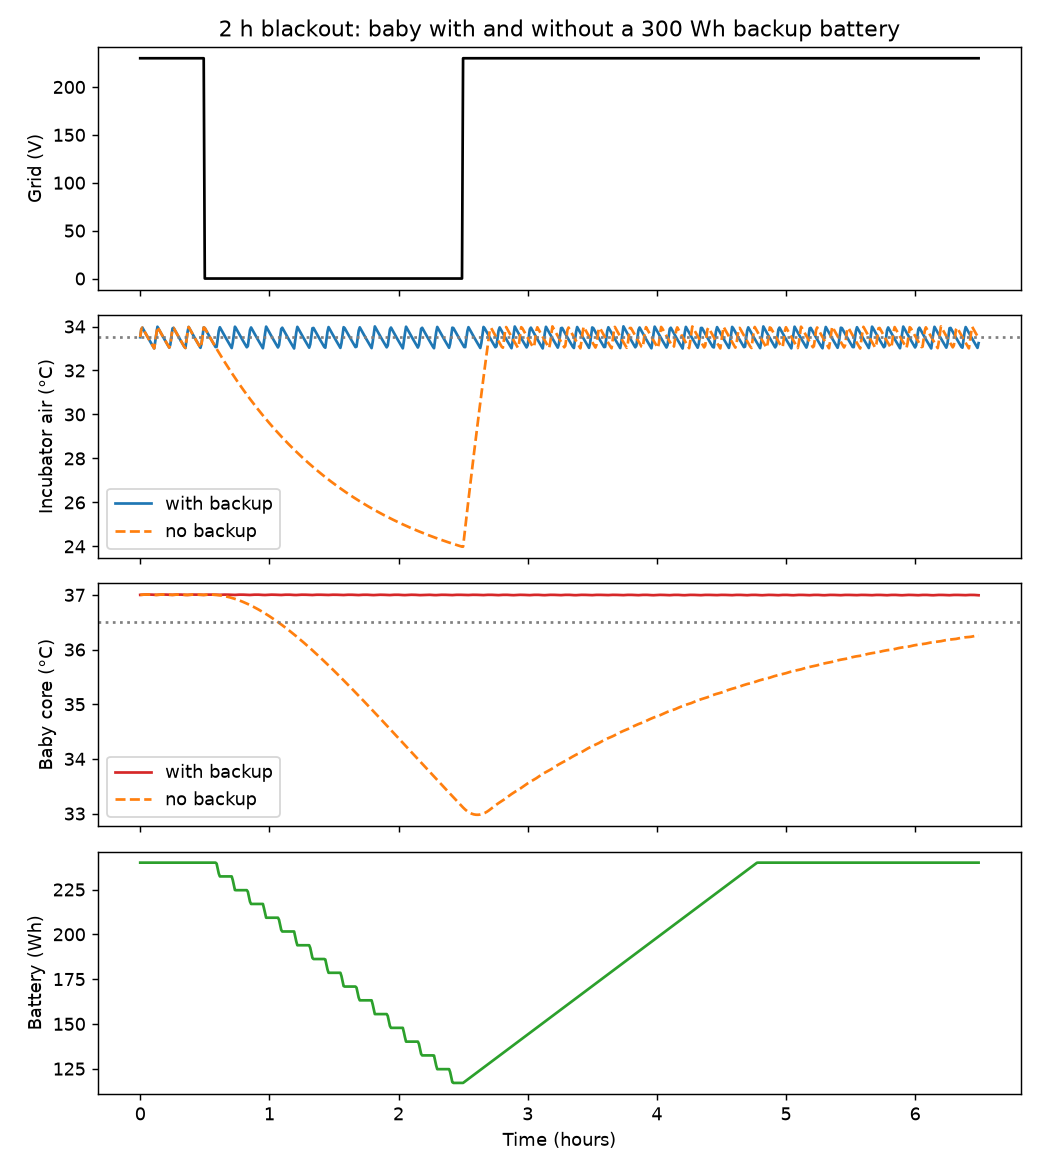
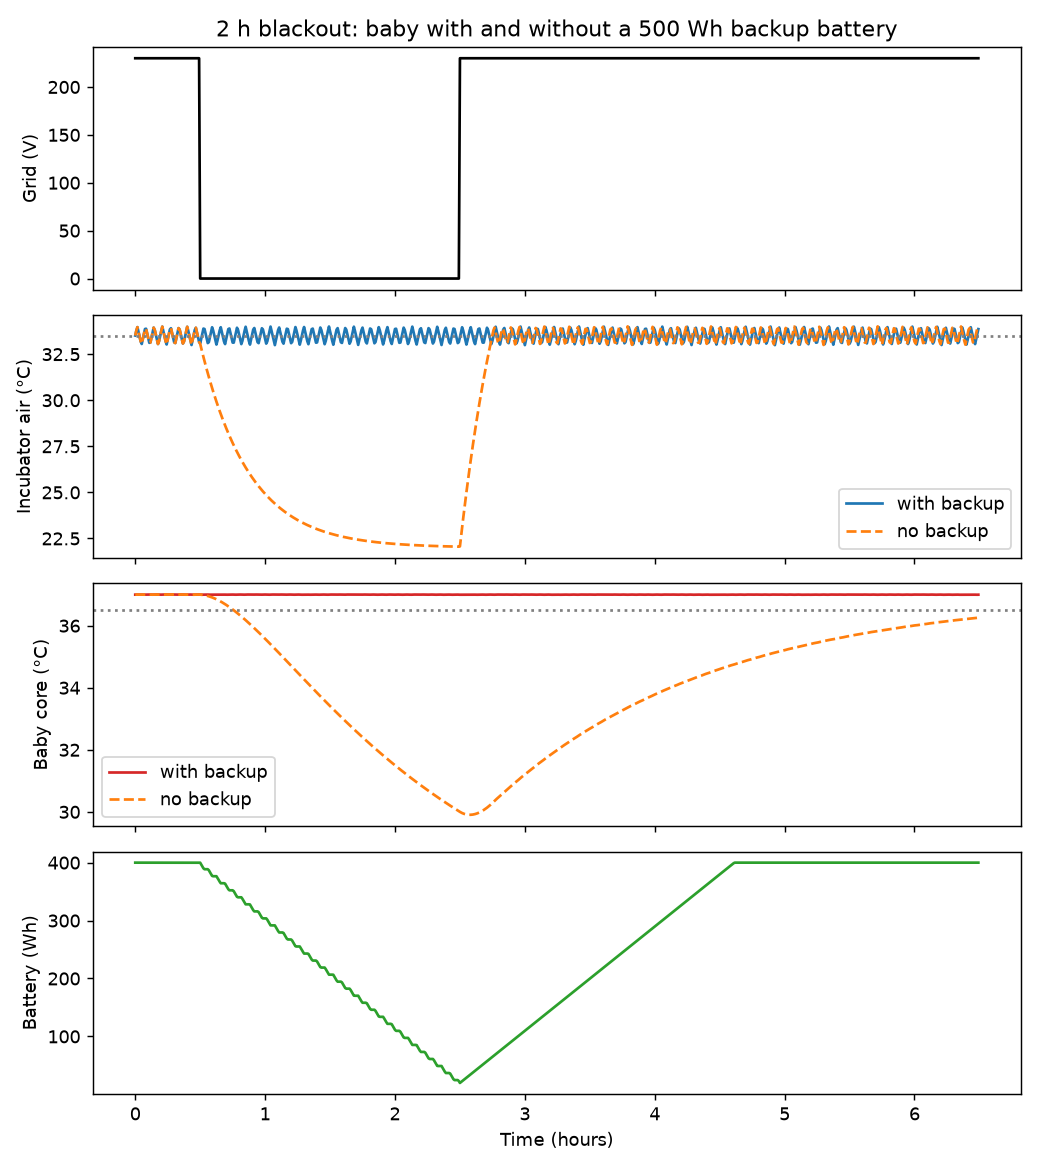
Rewrite README with measured heat loss and birth-weight results; check every number

diff --git a/reproduce_findings.py b/reproduce_findings.py
@@ -1,8 +1,12 @@
-from dataclasses import replace
+"""Re-run every number quoted in README.md through model.py and compare."""
+import sys
+import time
+from dataclasses import replace
 from model import Params, legacy_params, grid_profile, repeated_outages, simulate
 
-BIG = 1000000
+BIG = 1000000.0
 bad = []
+start = time.time()
 
 
 def check(name, readme, got, tol):
@@ -12,79 +16,74 @@ def check(name, readme, got, tol):
     print(f"{'OK  ' if ok else 'DIFF'} | {name}: README {readme:g}, model {got:.2f}")
 
 
-def check_range(name, lo, hi, got):
-    ok = lo <= got <= hi
-    if not ok:
-        bad.append(name)
-    print(f"{'OK  ' if ok else 'DIFF'} | {name}: README {lo:g} to {hi:g}, model {got:.2f}")
+def needed(p, grid):
+    r = simulate(p, grid, BIG)
+    return (p.usable_fraction * BIG - r["lowest_charge_wh"]) / p.usable_fraction, r
 
 
-def brownout(heater, ua, v, hours=6.0):
-    p = replace(legacy_params(), heater_w=float(heater), ua=float(ua))
-    g = grid_profile([(0.5, hours, v)], 0.5 + hours + 4)
-    return simulate(p, g, BIG)
+def blackout(h):
+    return grid_profile([(0.5, h, 0.0)], 0.5 + h + 4)
 
 
-print("--- Sustained undervoltage, 6 h ---")
-for ua in (5, 8):
-    for v in (0.55, 0.6, 0.7, 0.85):
-        r = brownout(300, ua, v)
-        check(f"300 W, UA {ua}, {v} pu: battery Wh", 0, r["battery_used_wh"], 1.0)
-r = brownout(300, 8, 0.55)
-check("300 W, UA 8, 0.55 pu: lowest core", 36.84, r["lowest_core"], 0.03)
-for v in (0.55, 0.6, 0.7, 0.85):
-    r = brownout(200, 5, v)
-    check(f"200 W, UA 5, {v} pu: battery Wh", 0, r["battery_used_wh"], 1.0)
-r = brownout(200, 8, 0.6)
-check("200 W, UA 8, 0.6 pu: battery Wh", 180, r["battery_used_wh"], 4.0)
-check("200 W, UA 8, 0.6 pu: lowest core", 36.67, r["lowest_core"], 0.03)
-r = brownout(200, 8, 0.55)
-check("200 W, UA 8, 0.55 pu: battery Wh", 275, r["battery_used_wh"], 5.0)
-check("200 W, UA 8, 0.55 pu: lowest core", 36.67, r["lowest_core"], 0.03)
+def brownout(v, h=6.0):
+    return grid_profile([(0.5, h, v)], 0.5 + h + 4)
+
+
+d = Params()
+
+print("--- Default incubator, 2 kg baby, 22 C room: blackouts ---")
+for hours, want in ((2, 475), (3, 712), (8, 1895), (11, 2607)):
+    n, r = needed(d, blackout(hours))
+    check(f"{hours} h blackout: battery rating (Wh)", want, n, max(10, 0.02 * want))
+    check(f"{hours} h blackout: lowest baby temperature with backup (C)", 37.0, r["lowest_core"], 0.05)
+    check(f"{hours} h blackout: battery energy per hour (Wh)", 190, r["battery_used_wh"] / hours, 5)
+n0 = simulate(d, blackout(2), 0)
+check("2 h blackout, no backup: lowest baby temperature (C)", 29.9, n0["lowest_core"], 0.15)
 
 print()
-print("--- Blackout energy, UA 5, room 22 C, immediate transfer to battery ---")
-for hours in (1.5, 2.0, 3.0, 8.0, 11.0):
-    g = grid_profile([(0.5, hours, 0.0)], 0.5 + hours + 4)
-    r = simulate(legacy_params(), g, BIG)
-    wh = r["battery_used_wh"]
-    print(f"INFO | {hours} h blackout: battery {wh:.0f} Wh = {wh / hours:.1f} Wh per hour, "
-          f"rating at 80% usable {wh / 0.8:.0f} Wh, lowest core {r['lowest_core']:.2f}")
-    if hours >= 1.5:
-        check(f"{hours} h blackout: Wh per hour (UA x temperature difference / efficiency)", 63.9, wh / hours, 3.0)
+print("--- By birth weight, 2 h blackout ---")
+for kg, want, want_core in ((0.5, 561, 25.2), (1.0, 531, 26.9), (2.0, 475, 29.9), (3.0, 454, 30.7), (4.0, 436, 31.3)):
+    q = Params(baby_mass_kg=kg)
+    n, r = needed(q, blackout(2))
+    check(f"{kg} kg: battery rating (Wh)", want, n, 10)
+    check(f"{kg} kg: no backup, lowest baby temperature (C)", want_core, simulate(q, blackout(2), 0)["lowest_core"], 0.2)
 
 print()
-print("--- No backup, 2 h blackout ---")
-for cap_kj, want in ((5, 30.90), (10, 31.68), (20, 32.98), (30, 33.60)):
-    pp = replace(legacy_params(), air_capacity=cap_kj * 1000.0)
-    g = grid_profile([(0.5, 2.0, 0.0)], 6.5)
-    r = simulate(pp, g, 0)
-    check(f"C = {cap_kj} kJ/C: lowest core", want, r["lowest_core"], 0.1)
+print("--- Heat loss sensitivity, 2 h blackout, 2 kg baby ---")
+for ua, want in ((5, 158), (8, 256), (11, 350), (14.8, 475), (20, 642)):
+    n, _ = needed(replace(d, ua=float(ua)), blackout(2))
+    check(f"heat loss {ua} W/C: battery rating (Wh)", want, n, 10)
 
 print()
-print("--- Repeated blackouts, 3 a day for 48 h ---")
-cases = [(1.5, 100, 87, 36.82), (1.5, 150, 0, 36.99), (3.0, 100, 639, 33.33),
-         (3.0, 150, 397, 35.10), (3.0, 200, 197, 36.40), (3.0, 300, 0, 36.99)]
-for length, rating, empty, core in cases:
-    r = simulate(legacy_params(), grid_profile(repeated_outages(length), 48), rating)
-    check(f"{length} h, {rating} Wh: minutes battery empty", empty, r["minutes_battery_empty"], max(5, 0.03 * empty))
-    check(f"{length} h, {rating} Wh: lowest core", core, r["lowest_core"], 0.1)
-
-
-def warmup(heater, ua=5.0, c=20000.0, room=22.0):
-    T, t = room, 0
-    while T < 35.0 and t < 36000:
-        T += (heater - ua * (T - room)) / c
-        t += 1
-    return t / 60.0
-
+print("--- Low voltage for 6 h ---")
+for v in (0.7, 0.75, 0.8, 0.9):
+    n, _ = needed(d, brownout(v))
+    check(f"grid at {v} of nominal: battery rating (Wh)", 0, n, 5)
+for v, want, want_core, want_min in ((0.6, 508, 34.1, 506), (0.55, 706, 32.8, 553)):
+    n, _ = needed(d, brownout(v))
+    check(f"grid at {v} of nominal: battery rating (Wh)", want, n, 15)
+    nb = simulate(d, brownout(v), 0)
+    check(f"grid at {v}, no backup: lowest baby temperature (C)", want_core, nb["lowest_core"], 0.15)
+    check(f"grid at {v}, no backup: minutes below 36.5 C", want_min, nb["minutes_core_below_36_5"], 10)
+loss = d.ua * (d.setpoint_c - d.room_c)
+check("lowest grid voltage the heater holds alone (fraction of nominal)", 0.70, (loss / d.heater_w) ** 0.5, 0.02)
 
 print()
-print("--- Warm-up from 22 to 35 C ---")
-for w, want in ((200, 26.2), (250, 20.1), (300, 16.3), (400, 11.8)):
-    check(f"{w} W heater: minutes", want, warmup(w), 0.2)
+print("--- Charger, three blackouts a day for 2 days ---")
+for ch, h, want in ((60, 2.0, 814), (100, 2.0, 476), (200, 2.0, 476), (60, 3.0, 2566), (200, 3.0, 713)):
+    n, _ = needed(replace(d, charger_w=float(ch)), grid_profile(repeated_outages(h), 48))
+    check(f"{h} h blackouts, {ch} W charger: battery rating (Wh)", want, n, max(10, 0.03 * want))
 
 print()
+print("--- Heater warm-up and measured heat loss ---")
+T, t = 22.0, 0
+while T < 35.0 and t < 36000:
+    T += (d.heater_w - d.ua * (T - 22.0)) / d.air_capacity
+    t += 1
+check("warm-up from 22 to 35 C (minutes)", 18.0, t / 60.0, 0.3)
+check("heat loss x 11 C = measured heat power (W)", 162.95, d.ua * 11.0, 0.5)
+
+print()
+print(f"({time.time() - start:.0f} s)")
 print("Everything reproduced." if not bad else f"{len(bad)} differ: " + "; ".join(bad))
-
-
+sys.exit(1 if bad else 0)

diff --git a/make_figure.py b/make_figure.py
@@ -8,7 +8,7 @@ from model import Params, grid_profile, simulate
 D = "\u00b0C"
 p = Params()
 grid = grid_profile([(0.5, 2.0, 0.0)], 6.5)
-with_b = simulate(p, grid, 300)
+with_b = simulate(p, grid, 500)
 without = simulate(p, grid, 0)
 step = 30
 t = np.arange(len(grid))[::step] / 3600.0
@@ -16,7 +16,7 @@ t = np.arange(len(grid))[::step] / 3600.0
 fig, ax = plt.subplots(4, 1, sharex=True, figsize=(8, 9))
 ax[0].plot(t, grid[::step] * 230.0, color="black")
 ax[0].set_ylabel("Grid (V)")
-ax[0].set_title("2 h blackout: baby with and without a 300 Wh backup battery")
+ax[0].set_title("2 h blackout: baby with and without a 500 Wh backup battery")
 ax[1].plot(t, with_b["air"][::step], label="with backup")
 ax[1].plot(t, without["air"][::step], "--", label="no backup")
 ax[1].axhline(33.5, color="gray", ls=":")
@@ -34,3 +34,4 @@ fig.tight_layout()
 os.makedirs("docs", exist_ok=True)
 fig.savefig("docs/blackout_example.png", dpi=130)
 print("Saved docs/blackout_example.png")
+

diff --git a/README.md b/README.md
@@ -1,75 +1,79 @@
 # Resilient Infant Incubator: Power Failure Simulation
 
-Python simulation of an infant incubator and a preterm baby during mains outages and sustained undervoltage, with a backup battery and a controller.
-
 **Try it online:** [live dashboard](https://incubator-power-resilience.streamlit.app) | **More projects:** [portfolio](https://alusine-bah.github.io)
 
-> **Provisional numbers.** A measurement on a real commercial incubator (AMS Amenity XP; the two papers are listed in PARAMETERS.md) gives a heat loss of about 15 W per °C, roughly three times the 5 W per °C used for the results below. For such a device the battery sizes below are likely about three times too small, and the heater has less margin against low voltage. The model, dashboard and README are being updated.
-
 ## Summary
-When the grid fails, how long does a baby in an incubator stay warm, and how big must a backup battery be? This project simulates an incubator, a 2 kg preterm baby and a backup battery through blackouts and long low-voltage events. It checks its own results against earlier runs and lists what it leaves out.
+When the grid fails, how long does a baby in an incubator stay warm, and how big must a backup battery be? This project simulates an incubator, a preterm baby (0.5 to 4 kg) and a backup battery through blackouts and long low-voltage events. It uses a heat loss measured on one commercial incubator and outage data from published sensor studies, and a script re-runs every number in this README against the model.
 
-Main results from this model (inputs marked as assumptions are listed in PARAMETERS.md):
-- With no backup, a 2 h blackout lowers the modelled baby's core temperature to about 31 to 34 °C.
-- With a battery that takes over at once, the baby stays near 37 °C. The battery uses about 64 Wh per outage hour, so a rating of about 154 Wh for 2 h and 240 Wh for 3 h at 80 percent usable.
-- A 300 W heater rides through grid voltage down to 0.55 of nominal without a battery in the cases tested. A 200 W heater does not when heat loss is high (UA 8).
-- The heat-loss value is not validated against a real incubator, and battery size scales directly with it.
+Main results for the default incubator, a 2 kg baby and a 22 °C room. Inputs that are assumptions are listed in PARAMETERS.md.
+- With no backup, a 2 h blackout lowers the modelled core temperature of a 2 kg baby to about 30 °C. Across birth weights it falls to about 25 °C (0.5 kg) to 31 °C (4 kg). Below about 30 °C the model has no physiology, so read these as severe cold exposure and not as precise predictions.
+- With a battery that takes over at once, the baby stays at about 37 °C. The battery supplies about 190 Wh per outage hour, so a rated battery of about 237 Wh per outage hour at 80 percent usable: 475 Wh for 2 h, 712 Wh for 3 h, 1,895 Wh for 8 h and 2,607 Wh for 11 h.
+- Smaller babies need more battery for the same blackout, because their warmer air setpoint widens the gap to the room: 561 Wh at 0.5 kg against 436 Wh at 4 kg for 2 h.
+- Heat loss is the main lever. For a 2 h blackout the rated battery is 158 Wh at 5 W/°C, 256 Wh at 8, 350 Wh at 11, 475 Wh at 14.8 (measured) and 642 Wh at 20. A lower heat loss shrinks the battery in proportion; whether a practical incubator can reach a low value was not tested.
+- Low voltage: the 350 W heater holds the setpoint with no battery when the grid is at 0.7 of nominal or higher. At 0.6 for 6 h the rated battery must be about 508 Wh, and at 0.55 about 706 Wh. Without backup the baby spends 506 minutes (0.6) and 553 minutes (0.55) below 36.5 °C. Sensors in Sierra Leone recorded grid voltage as low as 0.55 of nominal.
+- Charger: for three 2 h blackouts a day, a 476 Wh battery works if the charger delivers 100 W or more. With a 60 W charger the battery cannot refill between blackouts and 814 Wh is needed. For 3 h blackouts the figures are 713 Wh with a 200 W charger and 2,566 Wh with 60 W.
+- Not validated: the heat loss comes from one device, and several other inputs rest on a single source or are assumptions (see the table below and PARAMETERS.md).
 
-![Baby temperature in a 2 h blackout, with and without a 300 Wh battery](docs/blackout_example.png)
+![Baby temperature in a 2 h blackout, with and without a 500 Wh battery](docs/blackout_example.png)
 
 **Educational model. Not a medical device and not for clinical decisions.**
-
-## Status
-Early stage. Several parameters are assumptions (see PARAMETERS.md for the source and status of each). Not validated against a real device. No measured steady-state power figure for a neonatal incubator has been found yet.
 
 ## Files
 - model.py: the simulation and all parameters
 - app.py: interactive dashboard
-- check_model.py and reproduce_findings.py: re-run earlier results through model.py and compare them with this README
+- check_model.py: tests the model against earlier results and published ranges
+- reproduce_findings.py: re-runs every number in this README through the model
 - make_figure.py: regenerates the example figure in docs/
-- PARAMETERS.md: where each input comes from, and the papers reviewed
+- PARAMETERS.md: where each input comes from, the papers reviewed, and open issues
 
 ## How to run
 - Install the packages: python -m pip install -r requirements.txt
-- Check the model reproduces earlier results: python check_model.py
-- Check every README claim against the model: python reproduce_findings.py
+- Check the model: python check_model.py
+- Check every README number against the model: python reproduce_findings.py
 - Start the interactive dashboard: python -m streamlit run app.py
 - Regenerate the example figure: python make_figure.py
 
-## Model (current settings)
-- Heater 300 W. A 200 W heater fails the 20 min warm-up spec of a commercial unit (VNG 3000 datasheet); 300 W gives 16 min in the model. Heater is a fixed resistance, so power is proportional to voltage squared.
-- Heat loss UA = 5 W/°C baseline, tested from 3 to 8. Calculated values in two papers support this range (about 3.8 W/°C, Kapen et al. 2019; about 4.2 W/°C from wall areas, Nwaneri et al. 2020), but neither is measured. Room 22 °C baseline; datasheets list 20 to 30 °C.
-- Air setpoint 33.5 °C (neutral temperature for a 2 kg baby in the first days; hospital guideline, handbook chart gives 31 to 34 °C). Thermostat swing +/-0.5 °C.
-- Incubator thermal capacity 20 kJ/°C (assumption; 5 to 30 tested, no effect on battery sizing).
-- Baby 2 kg, starts at 37.0 °C core. Metabolic heat 2 to 4 W, with heat loss coefficient set so the baby balances at 37.0 °C in 33.5 °C air.
-- Battery: converter efficiency 90 percent, 80 percent of rated capacity usable, 60 W charger (assumption).
+## Model (default settings)
+| Input | Value | Source or status |
+|---|---|---|
+| Heat loss, incubator to room | 14.8 W/°C | Measured on one commercial incubator (built 2006, empty hood): 162.95 W at 36 °C inside and 25 °C outside (Yeler and Koseoglu 2020, 2022). Earlier calculated values of 3.8 and 4.2 W/°C (Kapen 2019, Nwaneri 2020) were for simple prototypes |
+| Heater | 350 W | Close to the 368 W maximum measured on that incubator; the model warms from 22 to 35 °C in about 18 min |
+| Air setpoint | 35.5 °C (0.5 kg) to 32.6 °C (4 kg) | Hospital manual table for the first 24 hours (UCSF 2004); a UK guideline agrees within 0.1 °C |
+| Baby heat production | 2 W per kg | Preterm oxygen consumption (about 1.9 W/kg) and resting energy expenditure (about 2.8 W/kg); two citations still to confirm, see PARAMETERS.md |
+| Baby heat loss | Set so the baby balances at 37 °C at its setpoint | Consistent with published coefficients (7 to 9.8 W/m2/°C) times body surface area (derived) |
+| Baby specific heat | 3,500 J/kg/°C | Inside published tissue values (3,020 to 3,770) |
+| Heat stored in the incubator | 20 kJ/°C | Assumption; does not change battery size |
+| Room temperature | 22 °C | Datasheets list 20 to 30 °C |
+| Battery usable share | 80 percent | Cited for lithium batteries (Franco et al. 2017), at a cost in battery life |
+| Converter efficiency | 90 percent | Slightly optimistic at small loads (inverter idle draw) |
+| Charger | 200 W | Assumption; it must be able to refill the battery between outages |
 
 ## Controller
-- Mains failure: switch to battery immediately. A real device can detect this directly (the VNG 3000 datasheet lists a power-failure alarm within 30 s).
-- Partial undervoltage: use the battery when the air falls 0.6 °C below setpoint, hand back at 0.1 °C below setpoint. The trigger must sit below the thermostat swing; with a 0.8 °C trigger the core settles near 36.46 °C in long events.
+- Mains failure: switch to the battery at once. A real device can detect this directly (a commercial datasheet lists a power-failure alarm within 30 s).
+- Partial undervoltage: use the battery when the air falls 0.6 °C below setpoint, hand back at 0.1 °C below setpoint. The trigger must sit below the thermostat swing of +/-0.5 °C; a trigger of 0.8 °C let the baby settle just below 36.5 °C in long events.
 - Sensor accuracy (thermistor about 0.5 °C) is comparable to these margins.
 
-## Findings so far
-- Sustained undervoltage (6 h at 0.55 to 0.85 of nominal, the range seen in Sierra Leone sensor data): a 300 W heater needs no battery at UA 5 or 8 (lowest core 36.84 °C). A 200 W heater needs no battery at UA 5 but 180 to 275 Wh at UA 8 when the grid is at 0.6 to 0.55.
-- Blackout energy at UA 5, room 22 °C, immediate transfer to the battery: about 64 Wh of battery energy per outage hour (63.4 to 63.9 for events of 3 h or more; 61.5 for events of 1.5 to 2 h, because it depends on where the thermostat is in its cycle when the outage starts). This equals UA x (setpoint - room) / efficiency = 5 x 11.5 / 0.9 = 63.9 W, so a rating of about 80 Wh per outage hour at 80 percent usable. It scales with UA by the same formula (UA 8 is 1.6 times higher). Simulated ratings at 80 percent usable: 2 h about 154 Wh, 3 h about 240 Wh, 8 h about 634 Wh, 11 h about 874 Wh. The baby stays at 36.99 °C throughout because the battery takes over at once.
-- With no battery, a 2 h blackout lowers the modelled core temperature to about 31 to 34 °C depending on assumed thermal capacity (WHO moderate hypothermia is 32.0 to 35.9 °C axillary; our model gives core temperature, so the comparison is approximate).
-- Repeated outages (3 per day for 48 h, battery recharged between them): 1.5 h outages: 150 Wh is the smallest tested rating that never empties (each uses about 92 to 100 Wh, depending on thermostat timing); 3 h outages: 300 Wh is the smallest tested rating that never empties (each outage uses about 192 Wh, so at least 240 Wh is needed). A battery slightly too small gives a steep fall: at 3 h outages, 200 Wh gives a core of 36.40 °C, 150 Wh gives 35.10 °C and 100 Wh gives 33.33 °C.
-- Outage evidence: Sierra Leone (15 facilities, 6 weeks) shows 0.6 to 3.1 outages per day and 0.03 to 18 h per day without power; North Kivu (25 facilities, 29 months) shows median outage durations averaging 2.0 h (0.03 to 10.9 h). A 1.5 to 3 h outage is typical, not worst case.
+## Evidence for the scenarios
+- Sierra Leone, 15 public health facilities, 6 weeks of outlet sensors: 0.6 to 3.1 outages a day, 0.03 to 18 hours a day without power, grid voltage down to 127 V (0.55 of 230 V) (Wall et al. 2024).
+- North Kivu, DR Congo, 25 facilities, 29 months: the median outage averaged 2.0 hours, ranging from 0.03 to 10.9 hours (Miles et al. 2025).
+- Nine special neonatal care units in India: staff blamed voltage sags and surges for equipment damage (Messersmith et al. 2022). This model does not cover that.
+- Some facilities are without power for weeks because they cannot pay for grid power or fuel. A battery cannot fix that.
 
 ## Limitations
-- No radiant heat exchange with cooling walls (likely makes the baby cool too slowly) and constant metabolic heat (likely makes the baby cool too fast). The net effect is unknown. The baby is a single lumped term with no evaporative loss.
-- UA is not validated. A measurement method exists (heating power against ambient temperature across several conditions, Feles et al.) but has not been applied to a neonatal incubator.
-- Fan and electronics load is not included, and may fail at low voltage. Battery ageing, battery heat and clustered outages are not modelled. Lead-acid batteries may last as little as two years in the field.
-- Milliseconds-to-seconds sags and surges, and the equipment damage they cause (a main complaint in Indian special care units, Messersmith et al.), are not modelled.
-- Facilities without money for grid power or fuel can be without power for weeks (Waterloo CHC, Sierra Leone). A battery cannot address that.
-- Outage patterns are chosen from published ranges, not from a single dataset.
+- The heat loss is measured on one device, at one operating point, with an empty hood. Other incubators will differ, and the battery size scales directly with it.
+- No heat exchange with cooling walls (about two thirds of a small baby's heat loss is radiant), which likely makes the baby cool too slowly in the model. The baby's own response to cold is left out, which likely makes it cool too fast. The net effect is unknown.
+- Evaporative heat loss and humidity are not modelled, and they matter a lot for babies under about 1 kg. The setpoints are for the first day of life; older babies need cooler air.
+- The fan stopping in a blackout, the fan and electronics load, battery ageing, short sags and surges, and clustered outages are not modelled. The heater is a fixed resistance and the fan and controller are assumed to keep running at low voltage.
+- Outage patterns are chosen from published ranges, not from one dataset. The outage and heat-loss inputs have not yet been varied together to show how sure the conclusions are.
+- Temperature classes (WHO: moderate hypothermia 32.0 to 35.9 °C, severe below 32.0 °C) are measured under the arm; the model gives core temperature, so comparisons are approximate.
+
+## How the numbers changed
+The first version assumed a heat loss of 5 W/°C, which gave a rated battery of about 158 Wh for a 2 h blackout and a no-backup baby temperature of about 31 to 34 °C. A published measurement on a commercial incubator gives about three times that heat loss, which triples the battery sizes above. Those earlier figures were superseded and are kept only as the legacy test case in check_model.py.
 
 ## Next steps
-- Test clustered outages with short gaps and a limited charger.
-- Replace the assumed fan and electronics load and charger rating with sourced values.
-- Find a measured steady-state power figure for a neonatal incubator.
-
-
+- Vary the heat loss, baby heat production and outage inputs across their published ranges and report how often each battery size protects the baby.
+- Find a measurement on a second incubator, and a measured fan and electronics load.
+- Test clustered outages and a second dataset of outage lengths.
 
 ## Author
 Alusine Bah

diff --git a/PARAMETERS.md b/PARAMETERS.md
@@ -113,3 +113,8 @@ Status: CITED = a published value supports it; DERIVED = our arithmetic from pub
 - Heat loss UA = 162.95 / (36 - 25) = 14.8 W/°C (15.3 on the electrical figure), about three times the 5 W/°C used so far. The calculated values (3.8 W/°C, Kapen 2019; 4.2 W/°C, Nwaneri 2020) came from wooden or acrylic prototypes, omit ventilation and base losses, and were not measured.
 - Limits: one device, 2006, one operating point, empty hood. The fan stops in a blackout, so ventilation loss (about 2.3 W/°C) stops too while mixing also stops: not modelled.
 - Simulated effect (UA 14.8, heater 350 W, baby heat 4 W, room 22 °C): 2 h blackout 380 Wh used (rating 475 Wh); 3 h 570 Wh (712 Wh); 8 h 1516 Wh (1895 Wh). No backup: lowest core about 29.9 °C after 2 h. 6 h of low voltage: battery needed at 0.6 of nominal (406 Wh) and 0.55 (564 Wh); none at 0.7 or above. At UA 5 with the same heater and baby: 158, 237 and 634 Wh.
+
+## Correction and README rewrite
+- Earlier low-voltage notes quoted battery ENERGY USED (406 Wh at 0.6 of nominal for 6 h, 564 Wh at 0.55) as the battery needed. The rated battery size at 80 percent usable is 508 Wh and 706 Wh. The README now quotes rated sizes.
+- The 2 h no-backup figure quoted earlier (31 to 34 C) came from the old assumptions (heat loss 5 W/C, baby heat 3 W). With the measured heat loss it is about 30 C.
+- README rewritten from the model defaults; reproduce_findings.py re-runs every README number (all reproduced). Added: birth-weight slider (0.5 to 4 kg), setpoint table by weight (UCSF 2004), charger default 200 W (assumption), and a fix to the empty-battery count in low-voltage events.
